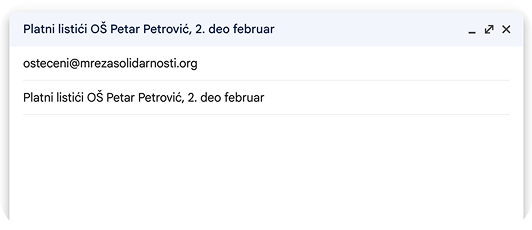
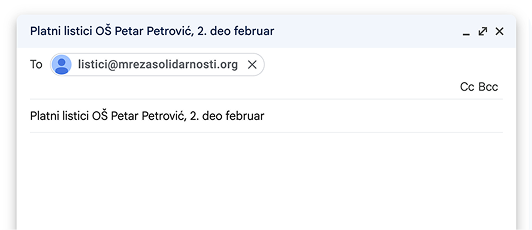
Improved educator template

Changed region(s): [[0.0, 0.0913, 0.5113, 1.0], [0.8722, 0.0913, 0.9925, 1.0], [0.8421, 0.3652, 0.9323, 0.3957]]

diff --git a/themes/frontend/educator/signup.php b/themes/frontend/educator/signup.php
@@ -1,12 +1,12 @@
 <?php $this->layout('layout::standard') ?>
 <main>
 	<div class="it-grid">
-		<h2>Prijava oštećenih</h2>
+		<h2>Prijavi oštećenog</h2>
 		<p><strong>Samo za drugi deo februarske plate</strong></p>
 		<p>Delegati treba da popune podatke za svakog pojedinačno kolegu koji se prijavljuje za program finansijske pomoći „Mreža solidarnosti“.</p>
 		<p><strong>Jedan formular = jedna prijava za jednog kolegu.</strong></p>
 		<p>Molimo vas da podatke unosite pažljivo i tačno – to je ključ za pravičnu, efikasnu i transparentnu raspodelu pomoći. Posebnu pažnju obratite na tačnost broja računa i iznosa, jer greške mogu usporiti isplatu.</p>
-		<p>📌 Za dodatnu proveru ispravnosti unetog računa možete koristiti ovaj alat pre nego što podatke unesete u formu:</p>
+		<p>📌 Za dodatnu proveru ispravnosti unetog računa možete koristiti ovaj alat pre nego što podatke unesete u formu: <a href="https://www.cekos.rs/kontrolni-broj-modul-97" target="_blank">Proveri broj računa</a></p>
 
         <?php if (isset($data['errors'])):
             foreach ($data['errors'] as $key => $error) {
@@ -2675,7 +2675,7 @@
 						<h2 style="margin-top: 0;">Slanje isplatnih listića</h2>
 						<p>Nakon što popunite formulare za svakog kolegu pojedinačno, u jednom mejlu nam pošaljite sve platne listiće prijavljenih kolega iz vaše škole, uz jasnu napomenu da se prijava odnosi isključivo na drugi deo februarske plate.</p>
 						<p style="margin-bottom: 0;">📩 Dokumentaciju šaljete na sledeći način:</p>
-						<small>Primalac: osteceni@mrezasolidarnosti.org</small>
+						<small>Primalac: listici@mrezasolidarnosti.org</small>
 						<br />
 						<small>Naslov mejla (subject): Platni listici < puno ime škole >, 2. deo februar</small>
 					</div>
